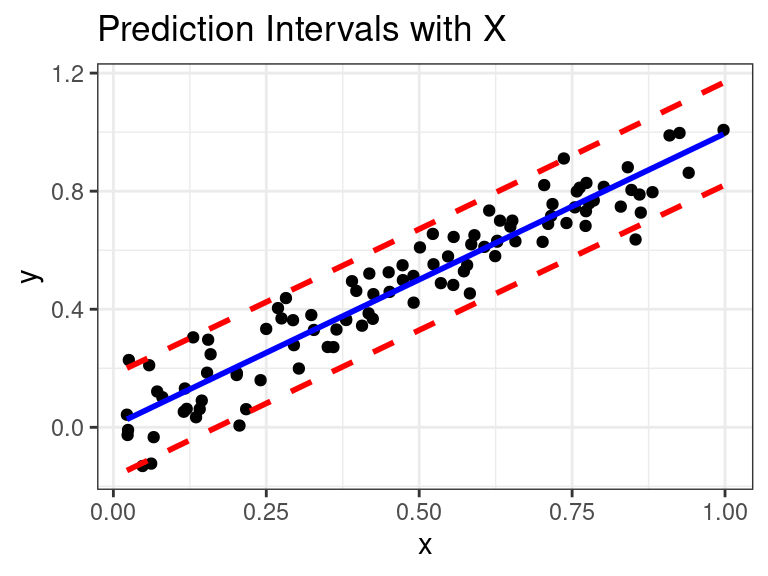
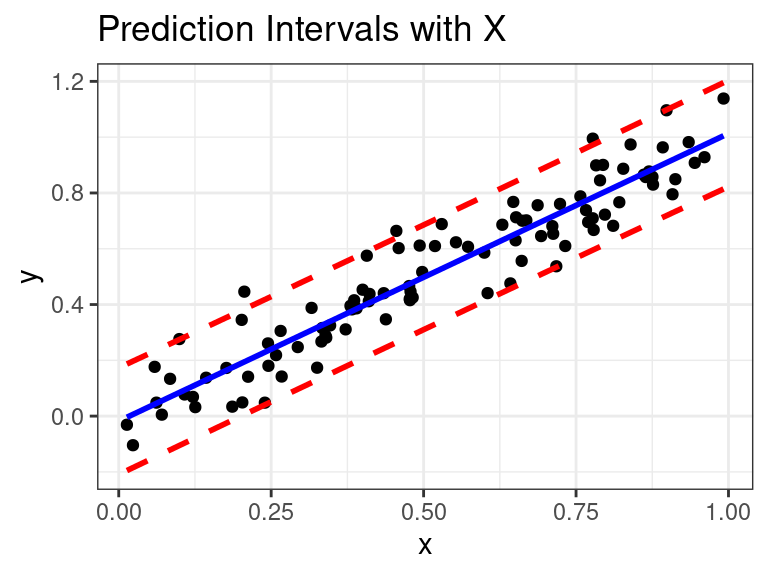
add seed

diff --git a/docs/05_mlr_selection.html b/docs/05_mlr_selection.html
@@ -451,6 +451,11 @@ div.tocify {
 <li>Causal interpretations are not allowed, as usual, with observational studies.</li>
 <li><span class="math inline">\(p\)</span>-values are meaningless.</li>
 </ol></li>
+<li><p>This is a strict interpretation, but folks in the real world typically fudge a little bit. How bad this is depends on how much fudging you do. My opinion:</p>
+<ul>
+<li>If you have many variables, a small sample size, and use automatic variable selection to come up with a model with a few predictors, then you are out of luck.</li>
+<li>If you have a large sample size, a small number of predictors, and you use some automatic procedures to come up with a couple models that you are going to use your expertise to choose between, then you are only fudging a little bit.</li>
+</ul></li>
 <li><p>If your dataset is large, then you can split your data into a training set and a test set. You can do whatever variable selection techniques you want on your training set, then fit your final model on your test set to obtain <span class="math inline">\(p\)</span>-values that have the proper interpretation.</p>
 <ul>
 <li>Test set could be about 25% and the training set about 75%.</li>
@@ -532,7 +537,7 @@ glimpse(sat)</code></pre>
 <ul>
 <li><p>True model: <span class="math inline">\(E(Y|X_1) = X_1\)</span></p></li>
 <li><p>Fit Model: <span class="math inline">\(E(Y|X_1, X_2) = \beta_0 + \beta_1 X_1 + \beta_2X_2\)</span></p></li>
-<li><p>Correlation between <span class="math inline">\(X_1\)</span> and <span class="math inline">\(X_2\)</span> is 0.9996.</p></li>
+<li><p>Correlation between <span class="math inline">\(X_1\)</span> and <span class="math inline">\(X_2\)</span> is 0.9994.</p></li>
 <li><p>We will simulate <span class="math inline">\(Y\)</span> and plot the resulting OLS estimates.</p></li>
 <li><p>Black is truth</p>
 <p><img src="figs/sim_pred.gif" style="display: block; margin: auto;" /></p></li>
@@ -972,7 +977,7 @@ glimpse(ex1221)</code></pre>
 ## $ Rating &lt;fct&gt; POOR, POOR, POOR, POOR, POOR, POOR, POOR, GOOD, GOOD, POOR, POO…
 ## $ Score  &lt;int&gt; 0, 0, 0, 0, 0, 0, 0, 2, 2, 0, 0, 0, 2, 3, 3, 0, 1, 0, 3, 2, 0, …</code></pre>
 <ol style="list-style-type: decimal">
-<li>Peform an exploratory data analysis on these data. What do you see?</li>
+<li>Perform an exploratory data analysis on these data. What do you see?</li>
 <li>Fit a rich model to these data, determine what variable transformations might be necessary.</li>
 <li>Apply these variable transformations until you obtain a rich model that appears to meet the assumptions of the linear model.</li>
 <li>Use an automatic variable selection technique to come up with a (or a couple) model(s) from which to choose a final predictive model.</li>
